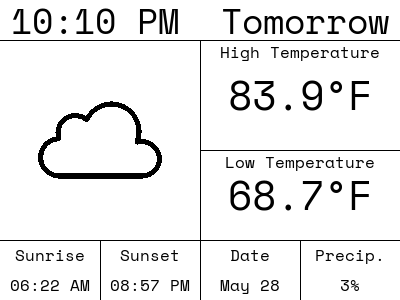
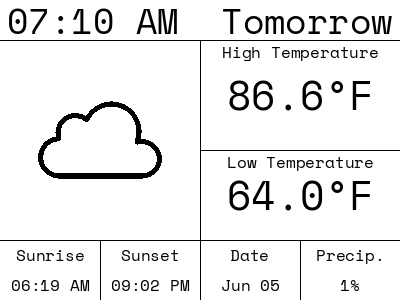
bug hunting...

diff --git a/FileManagement.py b/FileManagement.py
@@ -110,6 +110,8 @@ def get_forecast() -> str:
     if Path( _filepath ).is_file():
         PyLog.log( f"Loading forecast from {_filepath}" )
         json_str = load_forecast()
+        if json_str == "ERROR" or json_str == None:
+            PyLog.error( "Could not load JSON file..." )
         json_data = json.loads( json_str )
         if 'current' in json_data:
             if 'time' in json_data['current']:
